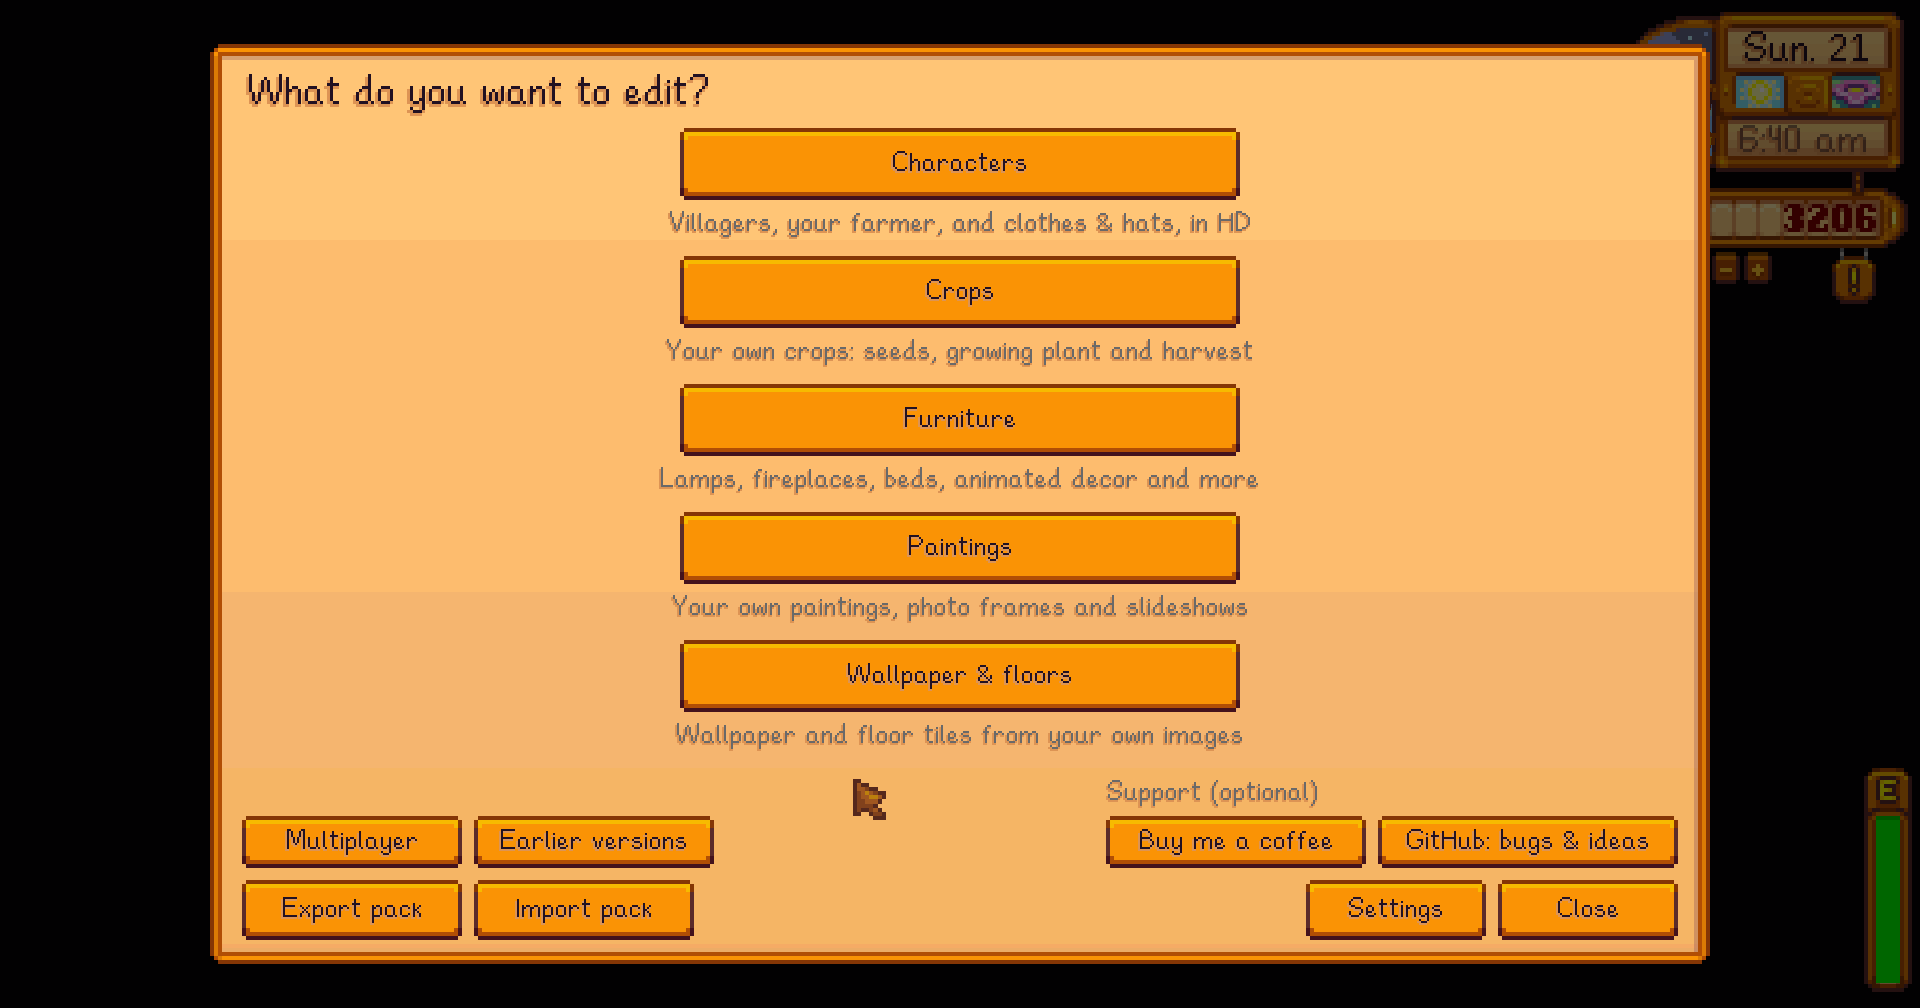
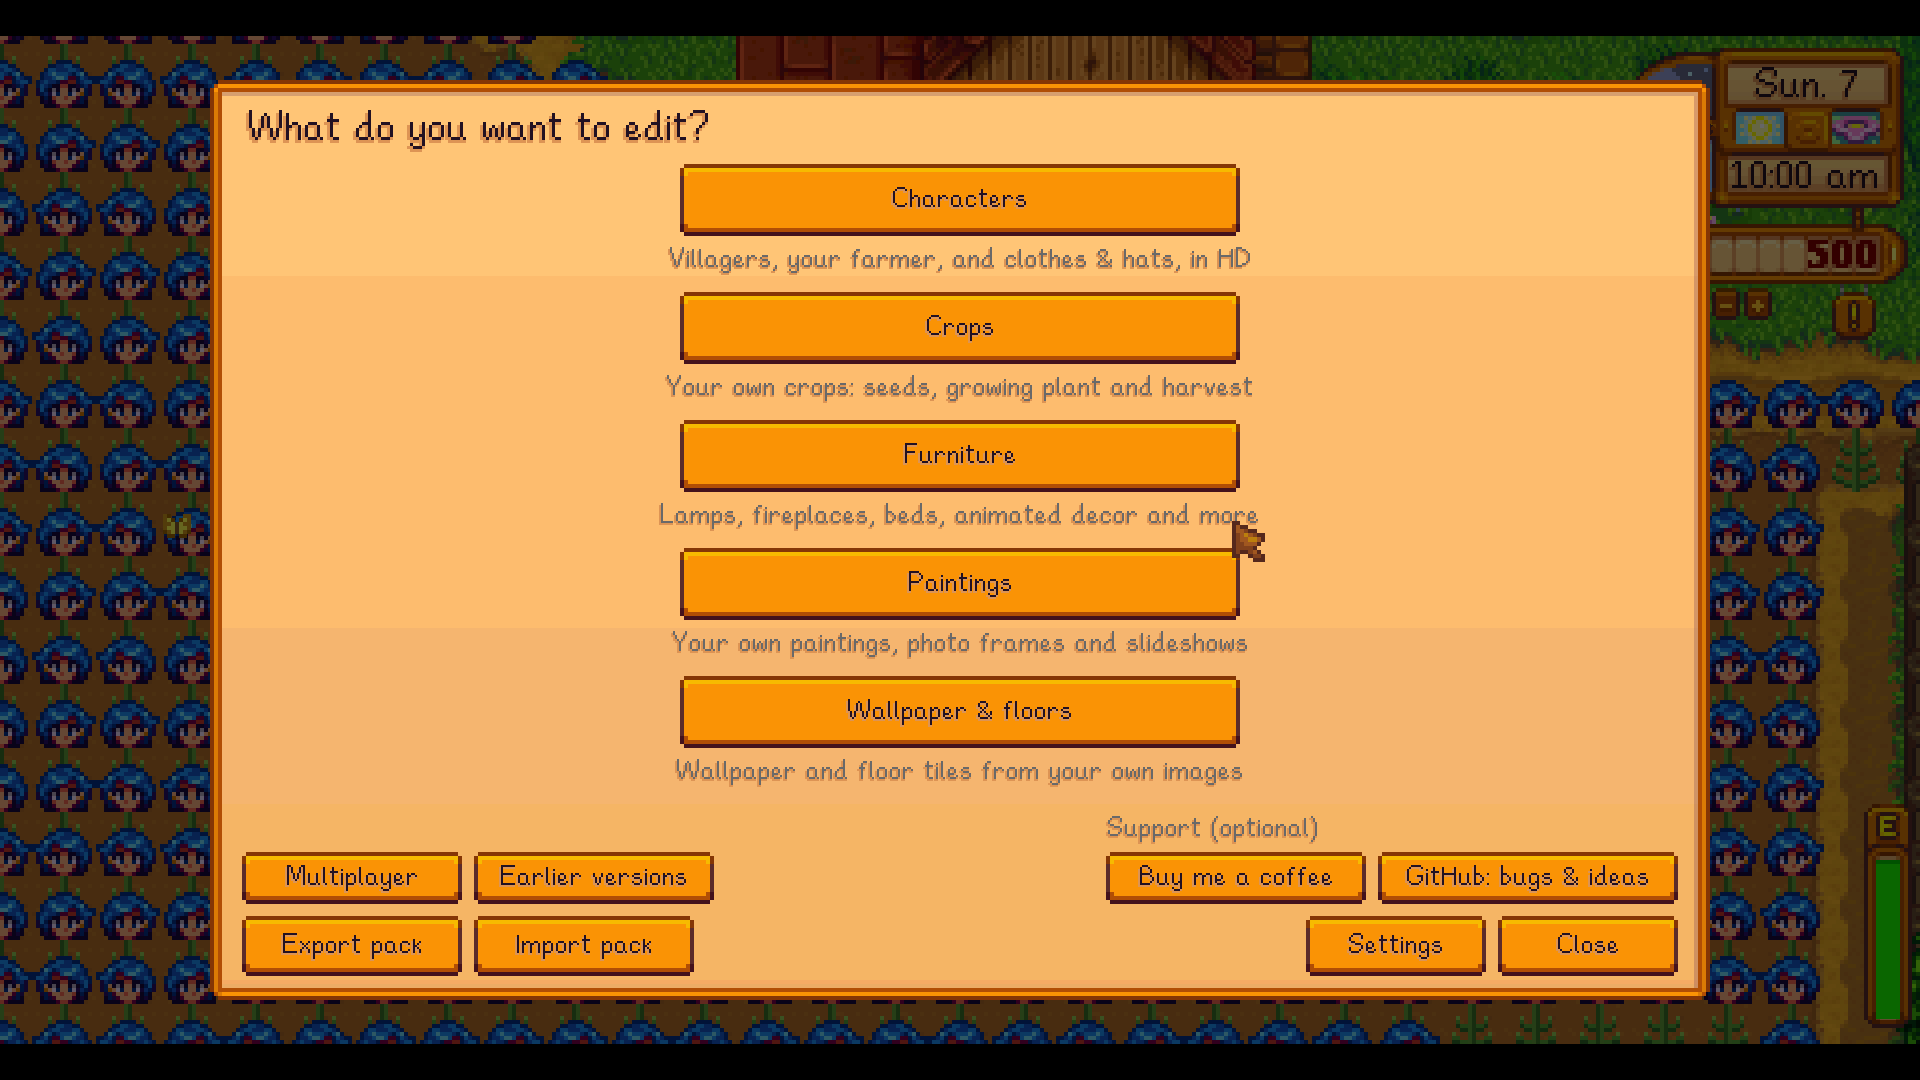
0.3.0 header and screenshots, with an Emily plant to show them off
The Nexus page still showed 0.2.1 art, so: a header in the size Nexus asks
for (1300x372) that leaves its lower left clear, since the site draws the mod
name there, and nine 1920x1080 shots of the editor as it is now.

The demo crop is the game's own Emily sprite growing as the flower of a leafy
plant, which shows the growth sheet, the seed packet and the harvest item in
one glance. Its two images are kept here so the shots can be made again.

diff --git a/docs/demo-content/README.md b/docs/demo-content/README.md
@@ -1,0 +1,10 @@
+# Demo content
+
+The "Emily plant" used in the 0.3.0 header and screenshots: a crop whose flower is Emily's head on a leafy stem.
+
+- `emily-plant-growth-x4.png` — the growth sheet, 512x128 (8 frames of 16x32 at 4x): 2 seedling frames, 3 growing, then ripe, then two regrow frames that repeat the ripe one.
+- `emily-plant-harvest-x4.png` — the harvest item, 64x64 (16x16 at 4x).
+
+Both were made from the game's own Emily sprite, exported with *Export original sheet* in the Characters editor, so they only make sense next to a copy of the game.
+
+To use them: put the two files in `CustomCrops/images`, add a crop in the editor, and point *Choose growth sheet* and *Choose image* at them. Four growth stages (`1,1,2,2`) matches the sheet; harvest with a scythe.
